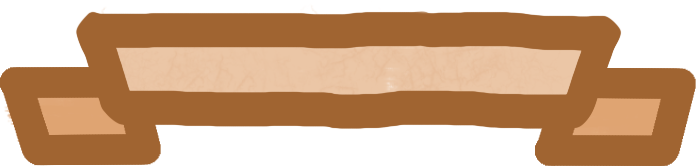
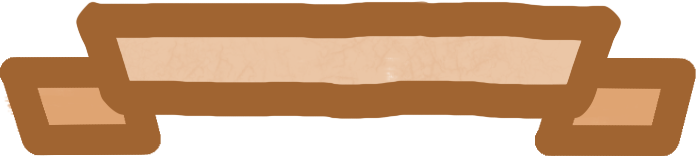
Render new card art

diff --git a/src/main/java/context/game/visuals/gui/CardGui.java b/src/main/java/context/game/visuals/gui/CardGui.java
@@ -3,9 +3,11 @@ package context.game.visuals.gui;
 import static context.visuals.colour.Colour.rgb;
 import static math.Quaternion.interpolate;
 
+import app.NomadsSettings;
 import common.math.Matrix4f;
 import common.math.PosDim;
 import common.math.Vector2f;
+import common.math.Vector2i;
 import common.math.Vector3f;
 import context.GLContext;
 import context.ResourcePack;
@@ -25,18 +27,24 @@ import model.state.GameState;
  */
 public class CardGui {
 
-	public static final float WIDTH = 256;
-	public static final float HEIGHT = 512;
+	public static final float WIDTH = 240;
+	public static final float HEIGHT = 384;
 	private static final Vector2f DEFAULT_DIM = new Vector2f(WIDTH, HEIGHT);
 	public static final float SIZE_FACTOR = 1.2f;
 	private static final UnitQuaternion DEFAULT_ORIENTATION = new UnitQuaternion(new Vector3f(0, 0, 1), 0);
 
 	private TextureRenderer textureRenderer;
 	private TextRenderer textRenderer;
-	private Texture base;
-	private Texture decoration;
-	private Texture front;
+
 	private Texture banner;
+	private Texture base;
+	private Texture header;
+	private Texture decoration;
+	private Texture pictureFrame;
+	private Texture ribbonLeft;
+	private Texture ribbonRight;
+	private Texture textBox;
+
 	private GameFont font;
 	private boolean hovered;
 	private boolean lockPos;
@@ -45,8 +53,8 @@ public class CardGui {
 	private UnitQuaternion currentOrientation = DEFAULT_ORIENTATION;
 
 	private Vector2f centerPos = new Vector2f();
-	private Vector2f dim = DEFAULT_DIM;
 	private Vector2f targetPos = new Vector2f();
+	private Vector2f dim = DEFAULT_DIM;
 	private Vector2f targetDim = DEFAULT_DIM;
 	private Texture art;
 	private long cardID;
@@ -55,34 +63,46 @@ public class CardGui {
 		cardID = card.id();
 		this.textureRenderer = resourcePack.getRenderer("texture", TextureRenderer.class);
 		this.textRenderer = resourcePack.getRenderer("text", TextRenderer.class);
+
+		banner = resourcePack.getTexture("card_banner");
 		base = resourcePack.getTexture("card_base");
 		decoration = resourcePack.getTexture("card_decoration_" + card.type().name);
-		front = resourcePack.getTexture("card_front");
-		banner = resourcePack.getTexture("card_banner");
+		header = resourcePack.getTexture("card_header");
+		pictureFrame = resourcePack.getTexture("card_picture_frame");
+		ribbonLeft = resourcePack.getTexture("card_ribbon_left");
+		ribbonRight = resourcePack.getTexture("card_ribbon_right");
+		textBox = resourcePack.getTexture("card_text_box");
+
 		art = resourcePack.getTexture(card.name().toLowerCase().replace(' ', '_'));
 		font = resourcePack.getFont("langar");
 	}
 
-	public void render(GLContext glContext, Vector2f screenDim, GameState state) {
-		currentOrientation = new UnitQuaternion(interpolate(currentOrientation, DEFAULT_ORIENTATION, 0.2f));
+	public void render(GLContext glContext, NomadsSettings s, GameState state) {
+		currentOrientation = new UnitQuaternion(interpolate(currentOrientation, DEFAULT_ORIENTATION, 0.001f));
 		Matrix4f rotation = currentOrientation.toRotationMatrix();
-		Matrix4f copy = new Matrix4f().translate(new Vector2f(-1, 1)).scale(2 / screenDim.x, -2 / screenDim.y)
-				.translate(centerPos)
-				.scale(new Vector3f(1, 1, 0f))
-				.multiply(rotation)
-				.translate(dim.scale(0.5f).negate()).scale(dim);
-		textureRenderer.render(base, copy);
-		textureRenderer.render(decoration, copy.copy().translate(0, 0, 8));
-		textureRenderer.render(front, copy.copy().translate(0, 0, 12));
-		textureRenderer.render(banner, copy.copy().translate(0, 0, 16));
-		textureRenderer.render(art, copy.copy().translate(0, 0, 20));
+//		Matrix4f copy = new Matrix4f().translate(new Vector2f(-1, 1)).scale(2 / screenDim.x, -2 / screenDim.y)
+//				.translate(centerPos)
+//				.scale(new Vector3f(1, 1, 0f))
+//				.multiply(rotation)
+//				.translate(dim.scale(0.5f).negate()).scale(dim);
+		Vector2i screenDim = glContext.windowDim();
+		textureRenderer.render(base, makeMatrix(screenDim, rotation, centerPos, new Vector2f(640, 1024), 0, s.guiScale));
+
+		textureRenderer.render(decoration, makeMatrix(screenDim, rotation, centerPos, new Vector2f(768, 768), 4, s.guiScale));
+		textureRenderer.render(pictureFrame, makeMatrix(screenDim, rotation, centerPos.add(0, -106), new Vector2f(517, 571), 8, s.guiScale));
+		textureRenderer.render(art, makeMatrix(screenDim, rotation, centerPos.add(0, 100), new Vector2f(640, 1324), 8, s.guiScale));
+		textureRenderer.render(textBox, makeMatrix(screenDim, rotation, centerPos.add(0, 279), new Vector2f(544, 371), 10, s.guiScale));
+		textureRenderer.render(ribbonLeft, makeMatrix(screenDim, rotation, centerPos.add(-218, -217), new Vector2f(133, 174), 11, s.guiScale));
+		textureRenderer.render(ribbonRight, makeMatrix(screenDim, rotation, centerPos.add(210, -208), new Vector2f(117, 168), 11, s.guiScale));
+		textureRenderer.render(header, makeMatrix(screenDim, rotation, centerPos.add(0, -356), new Vector2f(593, 265), 14, s.guiScale));
+		textureRenderer.render(banner, makeMatrix(screenDim, rotation, centerPos.add(0, -375), new Vector2f(696, 156), 18, s.guiScale));
 		Matrix4f textTransform = new Matrix4f()
 				.translate(centerPos)
 				.scale(new Vector3f(1, 1, 0f))
 				.multiply(rotation)
-				.translate(dim.scale(0.5f).negate());
-		float w = dim.x;
-		float h = dim.y;
+				.translate(-384 * 0.375f, -1024 * 0.365f);
+		float w = 768 * 0.375f;
+		float h = 1024 * 0.375f;
 		Matrix4f cardNameTransform = textTransform.copy().translate(w * 0.13f, h * 0.458f, 16);
 		Matrix4f cardTextTransform = textTransform.copy().translate(w * 0.22f, h * 0.53f, 12);
 		Matrix4f cardCostTransform = textTransform.copy().translate(w * 0.45f, h * 0.18f, 14);
@@ -93,6 +113,18 @@ public class CardGui {
 		textRenderer.alignLeft();
 		textRenderer.render(cardTextTransform, card.text(), w * 0.56f, font, w * 0.06f, rgb(28, 68, 124));
 		textRenderer.render(cardCostTransform, card.cost() + "", 0, font, w * 0.08f, rgb(28, 68, 124));
+	}
+
+	private Matrix4f makeMatrix(Vector2i windowDim, Matrix4f rotation, Vector2f center, Vector2f dim, float depth, float scale) {
+		center = centerPos.add(center.sub(centerPos).scale(scale));
+		dim = dim.scale(scale);
+		return new Matrix4f().translate(new Vector2f(-1, 1)).scale(2f / windowDim.x, -2f / windowDim.y)
+				.translate(centerPos)
+				.scale(new Vector3f(1, 1, 0f))
+				.multiply(rotation)
+				.translate(center.sub(centerPos).sub(dim.scale(0.5f)))
+				.scale(dim)
+				.translate(0, 0, depth);
 	}
 
 	public void updatePosDim() {

diff --git a/src/main/java/context/game/NomadsGameInput.java b/src/main/java/context/game/NomadsGameInput.java
@@ -3,8 +3,11 @@ package context.game;
 import common.event.GameEvent;
 import common.math.Vector2f;
 import common.math.Vector2i;
+import context.game.input.DetectHoveredCardMouseMovedFunction;
+import context.game.input.DetectPlayedCardMouseReleasedFunction;
 import context.game.input.NomadsInputInfo;
 import context.game.input.ResetCardPositionsFrameResizedFunction;
+import context.game.input.SelectCardMousePressedFunction;
 import context.input.GameInput;
 import context.input.event.MouseMovedInputEvent;
 import context.input.event.MousePressedInputEvent;
@@ -24,14 +27,14 @@ public class NomadsGameInput extends GameInput {
 		visuals = (NomadsGameVisuals) context().visuals();
 		inputContext.init(visuals, (NomadsGameData) context().data(), cursor());
 
-		addMousePressedFunction(this::handleMousePressed);
-		addMouseReleasedFunction(this::handleMouseReleased);
-		addMouseMovedFunction((e) -> pressed, this::handleMouseMoved, true);
+//		addMousePressedFunction(this::handleMousePressed);
+//		addMouseReleasedFunction(this::handleMouseReleased);
+//		addMouseMovedFunction((e) -> pressed, this::handleMouseMoved, true);
 
 //		addPacketReceivedFunction(new NomadRealmsProtocolDecoder());
-//		addMouseMovedFunction(new DetectHoveredCardMouseMovedFunction(inputContext));
-//		addMousePressedFunction(new SelectCardMousePressedFunction(inputContext));
-//		addMouseReleasedFunction(new DetectPlayedCardMouseReleasedFunction(inputContext));
+		addMouseMovedFunction(new DetectHoveredCardMouseMovedFunction(inputContext));
+		addMousePressedFunction(new SelectCardMousePressedFunction(inputContext));
+		addMouseReleasedFunction(new DetectPlayedCardMouseReleasedFunction(inputContext));
 //		addMousePressedFunction(new CardTargetMousePressedFunction(inputContext));
 //		addMousePressedFunction(new CancelCardMousePressedFunction(inputContext));
 //		addKeyPressedFunction(new SwitchNomadKeyPressedPredicate(), new SwitchNomadKeyPressedFunction(inputContext), false);

diff --git a/src/main/java/context/loading/LoadingGameVisuals.java b/src/main/java/context/loading/LoadingGameVisuals.java
@@ -74,14 +74,21 @@ public class LoadingGameVisuals extends GameVisuals {
 		texMap.put("queue_gui", "gui/queue_gui.png");
 
 		texMap.put("card_back_wood", "card_template/card_back_wood.png");
-		texMap.put("card_base", "card_template/card_base.png");
-		texMap.put("card_decoration_action", "card_template/card_decoration_action.png");
-		texMap.put("card_decoration_cantrip", "card_template/card_decoration_cantrip.png");
-		texMap.put("card_decoration_creature", "card_template/card_decoration_creature.png");
-		texMap.put("card_decoration_structure", "card_template/card_decoration_structure.png");
-		texMap.put("card_decoration_task", "card_template/card_decoration_structure.png"); // TODO make card_decoration_task.png
-		texMap.put("card_front", "card_template/card_front.png");
-		texMap.put("card_banner", "card_template/card_banner.png");
+
+		texMap.put("card_banner", "card_template/v2/banner.png");
+		texMap.put("card_base", "card_template/v2/base.png");
+		texMap.put("card_decoration_action", "card_template/v2/card_decoration_action.png");
+		texMap.put("card_decoration_cantrip", "card_template/v2/card_decoration_cantrip.png");
+		texMap.put("card_decoration_structure", "card_template/v2/card_decoration_structure.png");
+		texMap.put("card_decoration_task", "card_template/v2/card_decoration_task.png"); // TODO make card_decoration_task.png
+		texMap.put("card_header", "card_template/v2/header.png");
+		texMap.put("card_picture_frame", "card_template/v2/picture_frame.png");
+		texMap.put("card_ribbon_left", "card_template/v2/ribbon_left.png");
+		texMap.put("card_ribbon_right", "card_template/v2/ribbon_right.png");
+		texMap.put("card_text_box", "card_template/v2/text_box.png");
+
+//		texMap.put("card_front", "card_template/card_front.png");
+//		texMap.put("card_banner", "card_template/card_banner.png");
 
 		texMap.put("chain_segment", "chain/chain_segment.png");
 		texMap.put("effect_square", "chain/effect_square.png");

diff --git a/src/main/java/context/game/visuals/gui/CardZoneGui.java b/src/main/java/context/game/visuals/gui/CardZoneGui.java
@@ -3,9 +3,11 @@ package context.game.visuals.gui;
 import java.util.ArrayList;
 import java.util.List;
 
+import app.NomadsSettings;
 import common.math.Matrix4f;
 import common.math.PosDim;
 import common.math.Vector2f;
+import common.math.Vector2i;
 import context.GLContext;
 import context.visuals.gui.constraint.dimension.GuiDimensionConstraint;
 import context.visuals.gui.constraint.position.GuiPositionConstraint;
@@ -21,17 +23,17 @@ public abstract class CardZoneGui {
 	private GuiDimensionConstraint width;
 	private GuiDimensionConstraint height;
 
-	public final void doRender(GLContext glContext, Vector2f screenDim, GameState state, float x, float y, float w, float h) {
-		render(glContext, screenDim, state, x, y, w, h);
+	public final void doRender(GLContext glContext, NomadsSettings s, GameState state, float x, float y, float w, float h) {
+		render(glContext, s, state, x, y, w, h);
 		for (CardGui cardGui : cardGuis) {
-			cardGui.render(glContext, screenDim, state);
+			cardGui.render(glContext, s, state);
 		}
 	}
 
-	public abstract void render(GLContext glContext, Vector2f screenDim, GameState state, float x, float y, float w, float h);
+	public abstract void render(GLContext glContext, NomadsSettings s, GameState state, float x, float y, float w, float h);
 
-	protected final Matrix4f rectToPixelMatrix4f(Vector2f screenDim) {
-		return new Matrix4f().translate(new Vector2f(-1, 1)).scale(2 / screenDim.x, -2 / screenDim.y);
+	protected final Matrix4f rectToPixelMatrix4f(Vector2i screenDim) {
+		return new Matrix4f().translate(new Vector2f(-1, 1)).scale(2f / screenDim.x, -2f / screenDim.y);
 	}
 
 	protected PosDim posdim() {

diff --git a/src/main/java/context/game/visuals/gui/DeckGui.java b/src/main/java/context/game/visuals/gui/DeckGui.java
@@ -5,8 +5,8 @@ import static context.game.visuals.gui.CardGui.WIDTH;
 
 import java.util.List;
 
+import app.NomadsSettings;
 import common.math.Matrix4f;
-import common.math.Vector2f;
 import context.GLContext;
 import context.ResourcePack;
 import context.visuals.gui.constraint.dimension.PixelDimensionConstraint;
@@ -34,7 +34,7 @@ public class DeckGui extends CardZoneGui {
 	}
 
 	@Override
-	public void render(GLContext glContext, Vector2f screenDim, GameState state, float x, float y, float w, float h) {
+	public void render(GLContext glContext, NomadsSettings s, GameState state, float x, float y, float w, float h) {
 		List<CardGui> cardGuis = cardGuis();
 		for (int i = cardGuis.size() - 1; i >= 0; i--) {
 			if (cardGuis.get(i).inPlace()) {
@@ -44,7 +44,7 @@ public class DeckGui extends CardZoneGui {
 		if (state.cardPlayer(playerID()).cardDashboard().deck().empty()) {
 			return;
 		}
-		Matrix4f matrix4f = rectToPixelMatrix4f(screenDim).translate(x, y).scale(w, h);
+		Matrix4f matrix4f = rectToPixelMatrix4f(glContext.windowDim()).translate(x, y).scale(w, h);
 		textureRenderer.render(base, matrix4f);
 		textureRenderer.render(cardBackWood, matrix4f);
 		textureRenderer.render(logo, x + w * 0.5f, y + h * 0.5f, 0.4f);

diff --git a/src/main/java/context/game/visuals/gui/HandGui.java b/src/main/java/context/game/visuals/gui/HandGui.java
@@ -6,6 +6,7 @@ import static context.visuals.colour.Colour.toRangedVector;
 
 import java.util.List;
 
+import app.NomadsSettings;
 import common.math.PosDim;
 import common.math.Vector2f;
 import context.GLContext;
@@ -32,9 +33,9 @@ public class HandGui extends CardZoneGui {
 	}
 
 	@Override
-	public void render(GLContext glContext, Vector2f screenDim, GameState state, float x, float y, float width, float height) {
+	public void render(GLContext glContext, NomadsSettings s, GameState state, float x, float y, float width, float height) {
 		defaultShaderProgram.bind(glContext);
-		defaultShaderProgram.setMat4("matrix4f", rectToPixelMatrix4f(screenDim).translate(x, y).scale(width, height));
+		defaultShaderProgram.setMat4("matrix4f", rectToPixelMatrix4f(glContext.windowDim()).translate(x, y).scale(width, height));
 		defaultShaderProgram.setVec4("fill", toRangedVector(rgb(117, 96, 60)));
 		rectangleVAO.draw(glContext);
 	}

diff --git a/src/main/java/context/game/visuals/gui/QueueGui.java b/src/main/java/context/game/visuals/gui/QueueGui.java
@@ -2,6 +2,7 @@ package context.game.visuals.gui;
 
 import java.util.List;
 
+import app.NomadsSettings;
 import common.math.Vector2f;
 import context.GLContext;
 import context.ResourcePack;
@@ -26,8 +27,8 @@ public class QueueGui extends CardZoneGui {
 	}
 
 	@Override
-	public void render(GLContext glContext, Vector2f screenDim, GameState state, float x, float y, float width, float height) {
-		textureRenderer.render(queueTexture, rectToPixelMatrix4f(screenDim).translate(x, y).scale(width, height));
+	public void render(GLContext glContext, NomadsSettings s, GameState state, float x, float y, float width, float height) {
+		textureRenderer.render(queueTexture, rectToPixelMatrix4f(glContext.windowDim()).translate(x, y).scale(width, height));
 	}
 
 	@Override

diff --git a/src/main/java/context/game/visuals/gui/CardDashboardGui.java b/src/main/java/context/game/visuals/gui/CardDashboardGui.java
@@ -3,6 +3,7 @@ package context.game.visuals.gui;
 import java.util.HashMap;
 import java.util.Map;
 
+import app.NomadsSettings;
 import common.math.PosDim;
 import common.math.Vector2f;
 import context.GLContext;
@@ -50,11 +51,11 @@ public final class CardDashboardGui {
 		queue.resetTargetPositions(screenDimensions);
 	}
 
-	public void render(GLContext glContext, Vector2f screenDim, GameState state) {
+	public void render(GLContext glContext, NomadsSettings s, GameState state) {
 		CardZoneGui[] zones = { deck, queue, discard, hand };
 		for (CardZoneGui zone : zones) {
 			PosDim p = zone.posdim();
-			zone.doRender(glContext, screenDim, state, p.x, p.y, p.w, p.h);
+			zone.doRender(glContext, s, state, p.x, p.y, p.w, p.h);
 		}
 	}
 

diff --git a/src/main/java/context/game/visuals/gui/DiscardGui.java b/src/main/java/context/game/visuals/gui/DiscardGui.java
@@ -11,7 +11,7 @@ import java.util.HashMap;
 import java.util.List;
 import java.util.Map;
 
-import common.math.Vector2f;
+import app.NomadsSettings;
 import context.GLContext;
 import context.ResourcePack;
 import context.visuals.gui.constraint.dimension.PixelDimensionConstraint;
@@ -36,7 +36,7 @@ public class DiscardGui extends CardZoneGui {
 	}
 
 	@Override
-	public void render(GLContext glContext, Vector2f vector2f, GameState state, float x, float y, float width, float height) {
+	public void render(GLContext glContext, NomadsSettings s, GameState state, float x, float y, float width, float height) {
 		boolean cardGuiOnTop = false;
 		List<CardGui> cardGuis = cardGuis();
 		for (int i = cardGuis.size() - 2; i >= 0; i--) {

diff --git a/src/main/java/context/game/NomadsGameVisuals.java b/src/main/java/context/game/NomadsGameVisuals.java
@@ -72,7 +72,7 @@ public class NomadsGameVisuals extends GameVisuals {
 		actorRenderer.renderActors(rootGui, settings, state, camera, alpha());
 		chainHeapRenderer.render(state.chainHeap(), state, camera, settings);
 		dashboardGui.updateCardPositions();
-		dashboardGui.render(glContext(), rootGui.dimensions(), state);
+		dashboardGui.render(glContext(), settings, state);
 		CardPlayer player = state.cardPlayer(data.playerID());
 		camera.update(settings, player.worldPos(), rootGui);
 		renderParticles();

diff --git a/src/main/java/context/game/NomadsGameData.java b/src/main/java/context/game/NomadsGameData.java
@@ -18,7 +18,7 @@ public class NomadsGameData extends GameData {
 	private LimitedStack<GameState> states = new LimitedStack<>(30);
 	private GameState nextState;
 
-	private NomadsSettings settings = new NomadsSettings(48f, 1, 1, 1);
+	private NomadsSettings settings = new NomadsSettings(48f, 0.375f, 1, 1);
 
 	@Override
 	protected void init() {

diff --git a/src/main/java/context/game/NomadsGameAudio.java b/src/main/java/context/game/NomadsGameAudio.java
@@ -24,7 +24,7 @@ public class NomadsGameAudio extends GameAudio {
 		}
 		source = new AudioSource();
 		source.genID();
-		source.setGain(0.05f);
+		source.setGain(0.00f);
 		source.setAudioBuffer(buffer);
 	}
 
